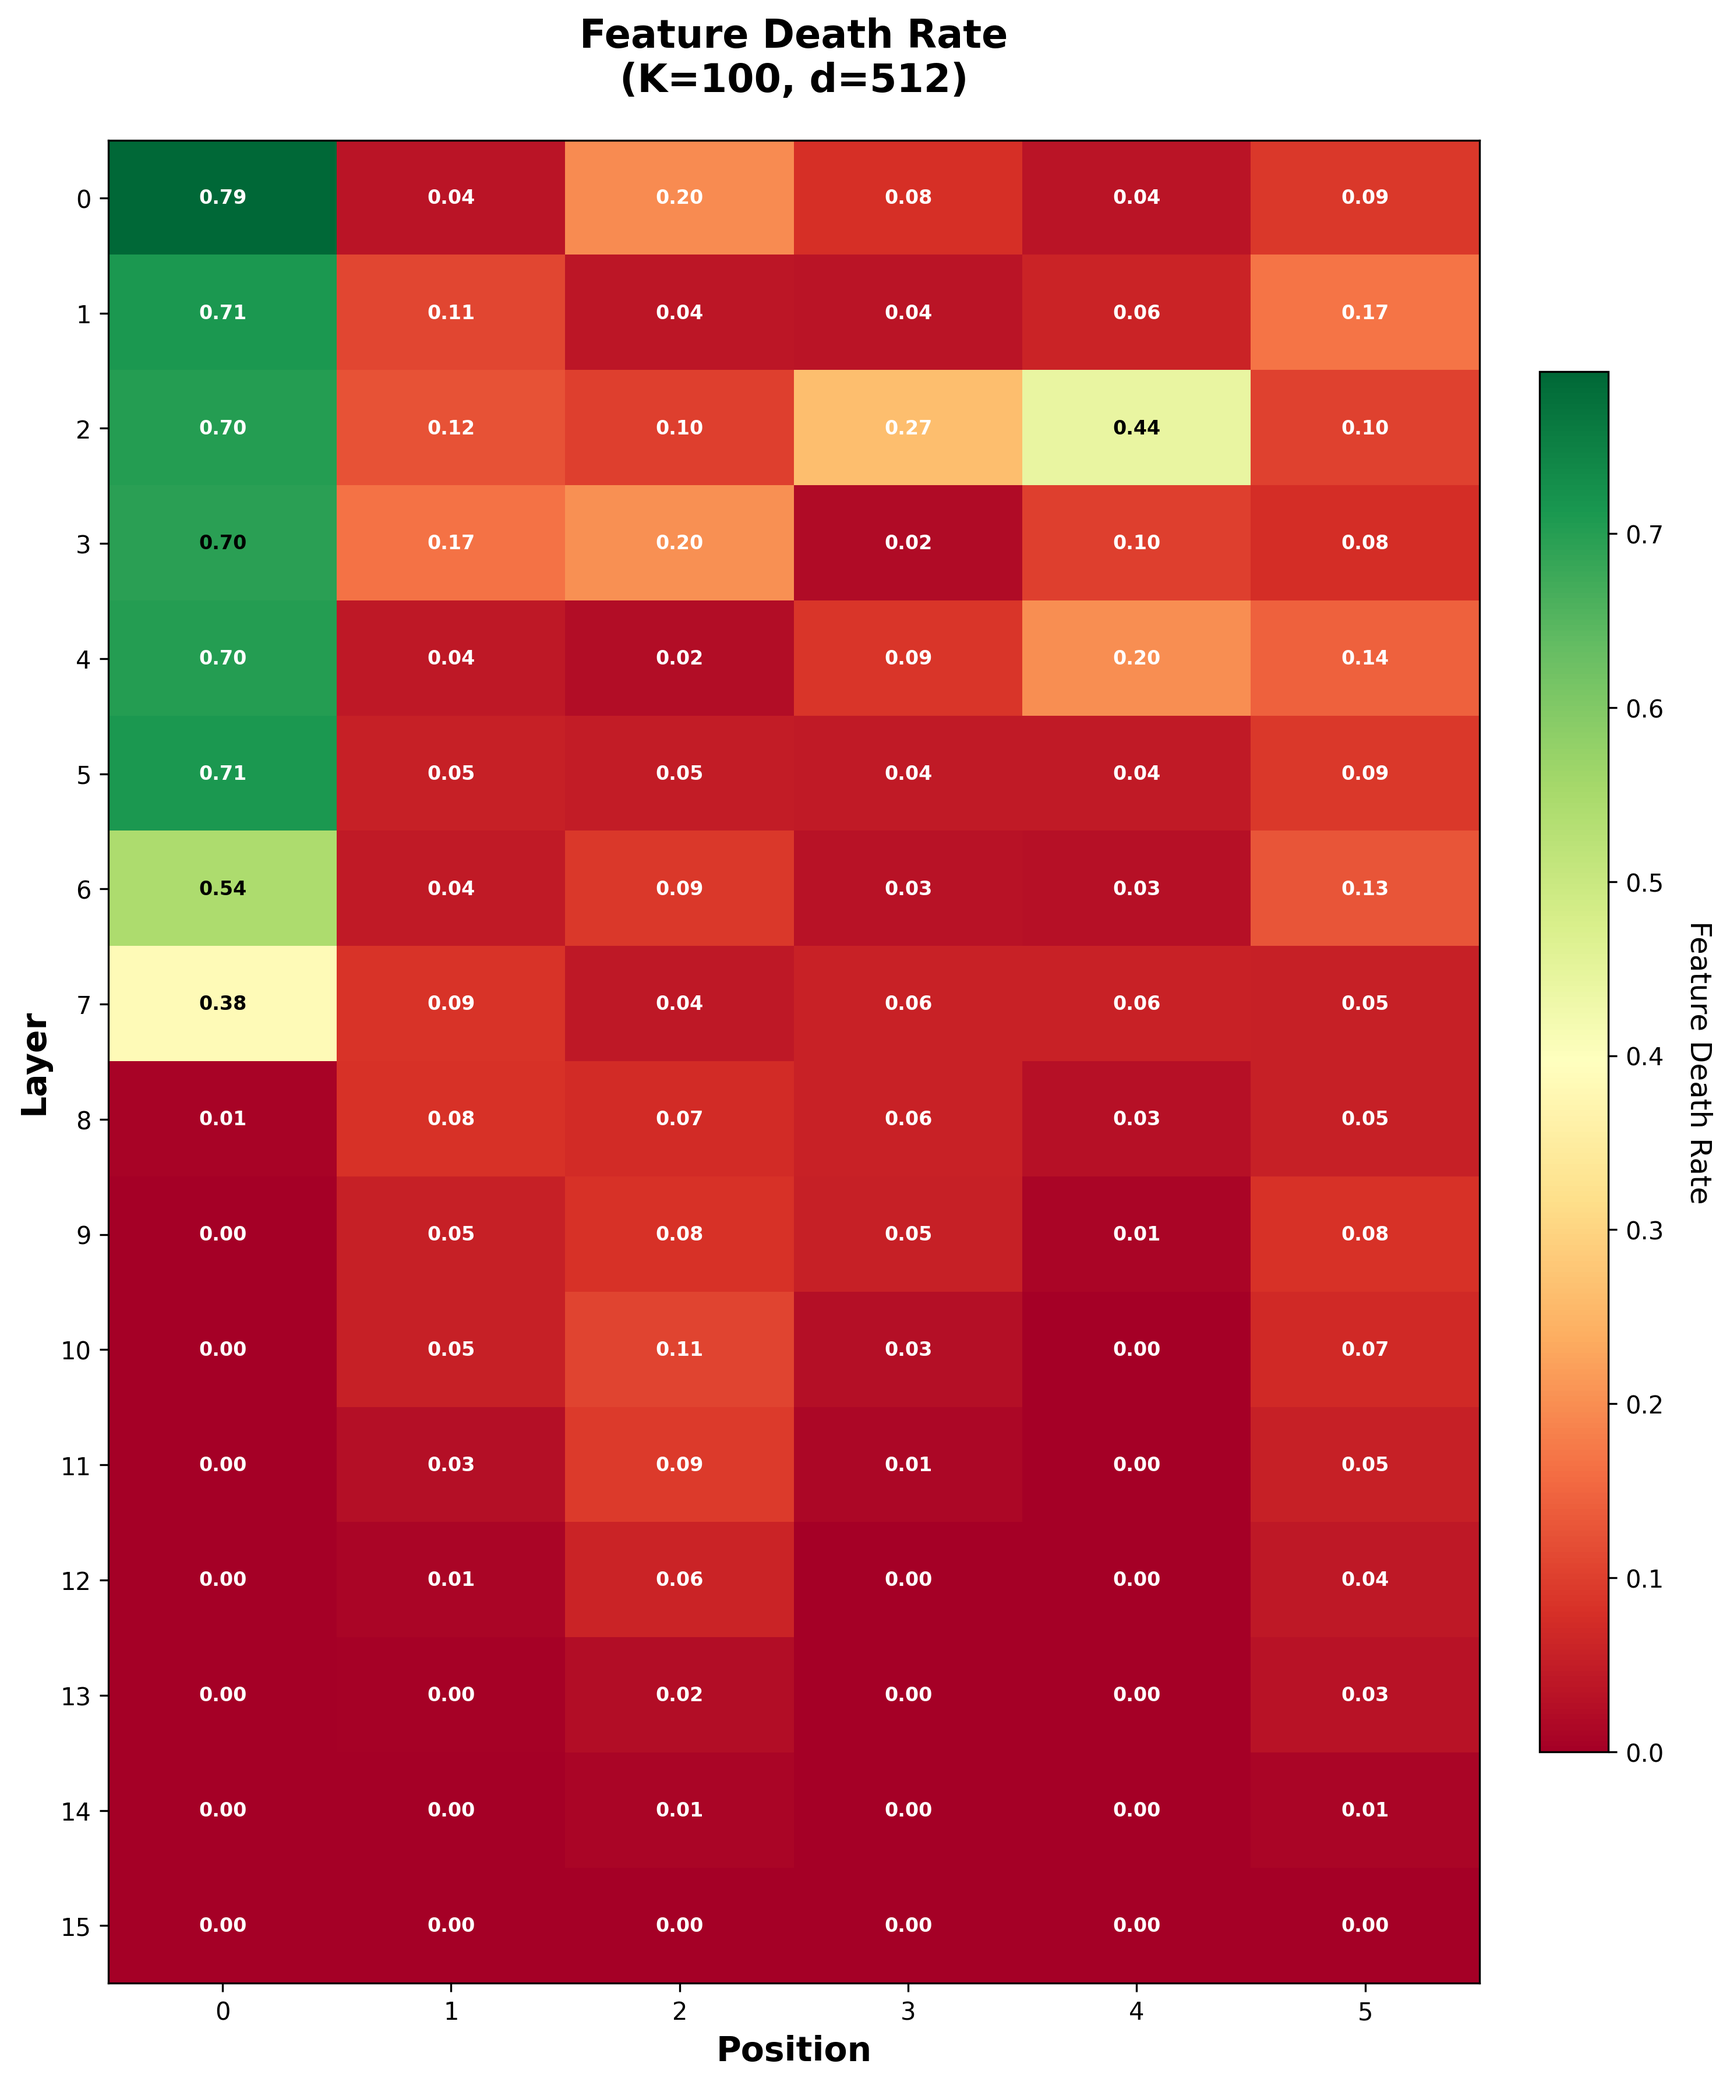
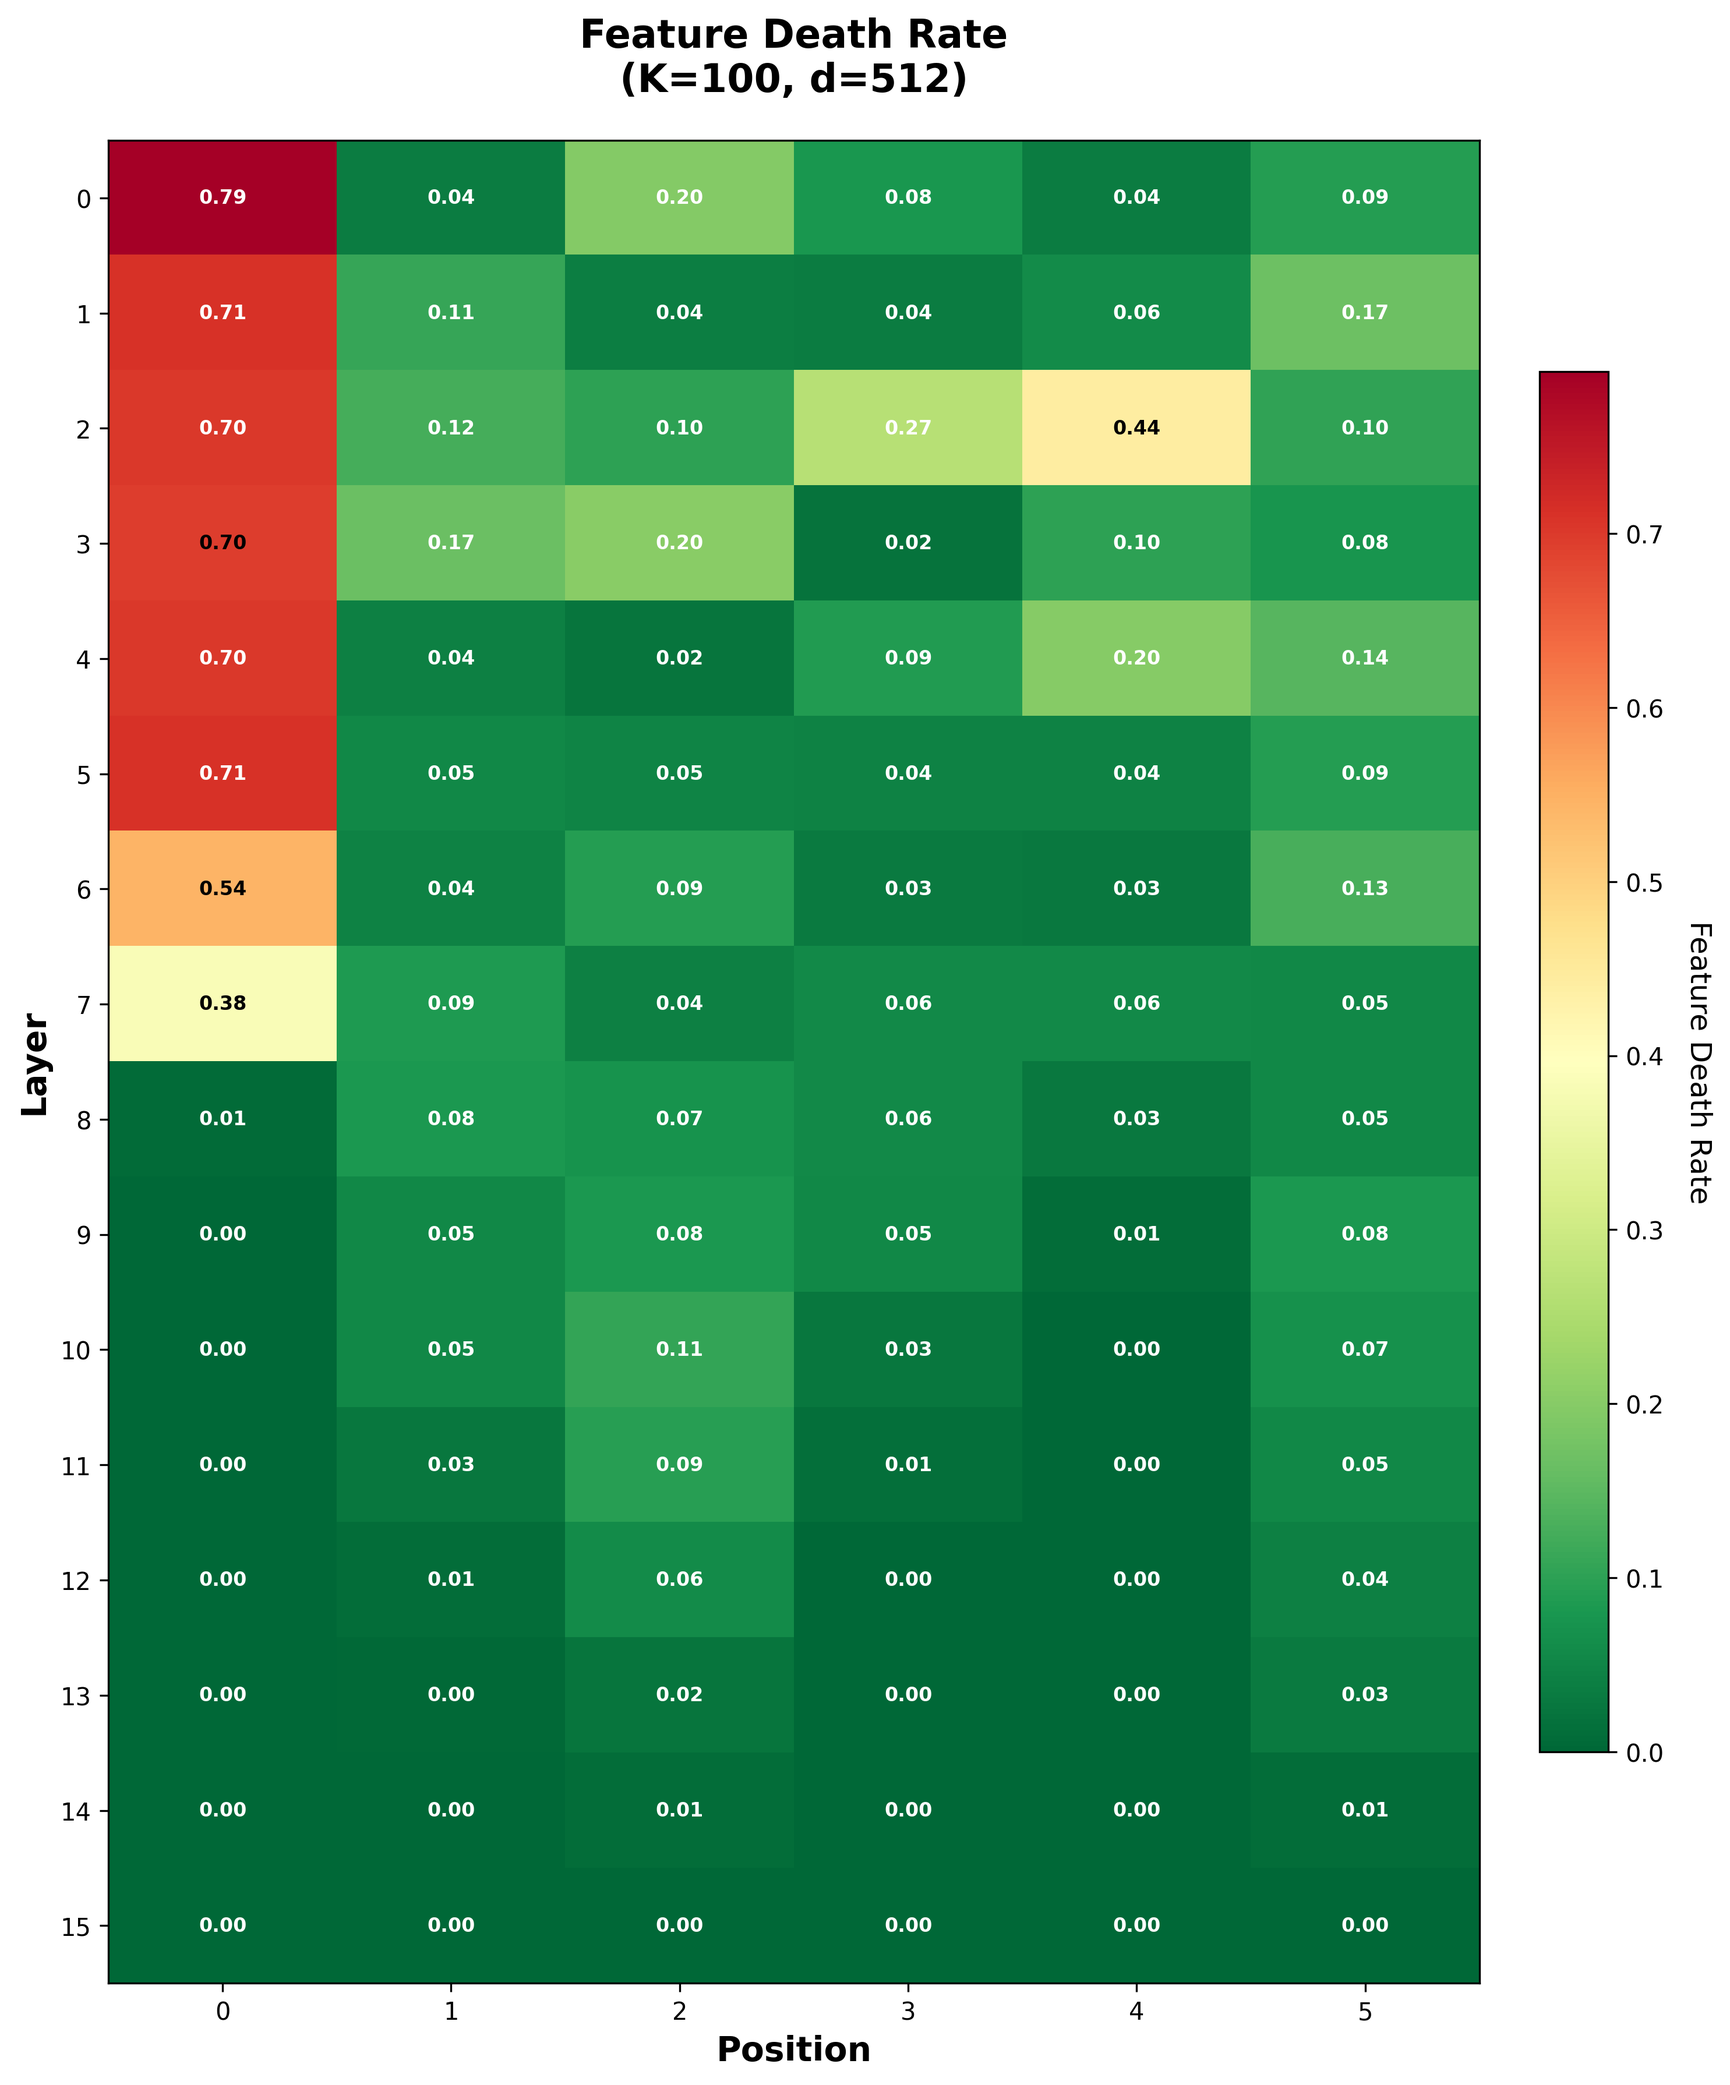
feat: Invert colormap for feature death rate visualization
Modified feature death rate heatmap to use reversed colormap (RdYlGn_r)
so that color semantics are intuitive:
- 0% death (good) → Dark green
- High death (bad) → Red

Changes:
- Added cmap parameter to plot_heatmap() function
- Feature death rate now uses 'RdYlGn_r' (reversed)
- Other metrics continue using standard 'RdYlGn'
- Regenerated sweetspot_k100_d512_feature_death.png

🤖 Generated with [Claude Code](https://claude.com/claude-code)

diff --git a/src/experiments/topk_grid_pilot/visualize_sweet_spot.py b/src/experiments/topk_grid_pilot/visualize_sweet_spot.py
@@ -51,12 +51,12 @@ def load_metrics_for_config(k=100, latent_dim=512):
     return metrics, layers, positions
 
 
-def plot_heatmap(data, metric_name, layers, positions, output_path, k, latent_dim):
+def plot_heatmap(data, metric_name, layers, positions, output_path, k, latent_dim, cmap='RdYlGn'):
     """Generate single heatmap for one metric."""
     fig, ax = plt.subplots(figsize=(10, 12))
 
     # Create heatmap
-    im = ax.imshow(data, cmap='RdYlGn', aspect='auto', interpolation='nearest')
+    im = ax.imshow(data, cmap=cmap, aspect='auto', interpolation='nearest')
 
     # Set ticks
     ax.set_xticks(np.arange(len(positions)))
@@ -126,13 +126,14 @@ def main():
         k, latent_dim
     )
 
-    # Feature Death Rate
+    # Feature Death Rate (reversed colormap: 0 death = green, high death = red)
     plot_heatmap(
         metrics['feature_death_rate'],
         'Feature Death Rate',
         layers, positions,
         viz_dir / f'sweetspot_k{k}_d{latent_dim}_feature_death.png',
-        k, latent_dim
+        k, latent_dim,
+        cmap='RdYlGn_r'  # Reversed: green = good (low death), red = bad (high death)
     )
 
     # Mean Activation
